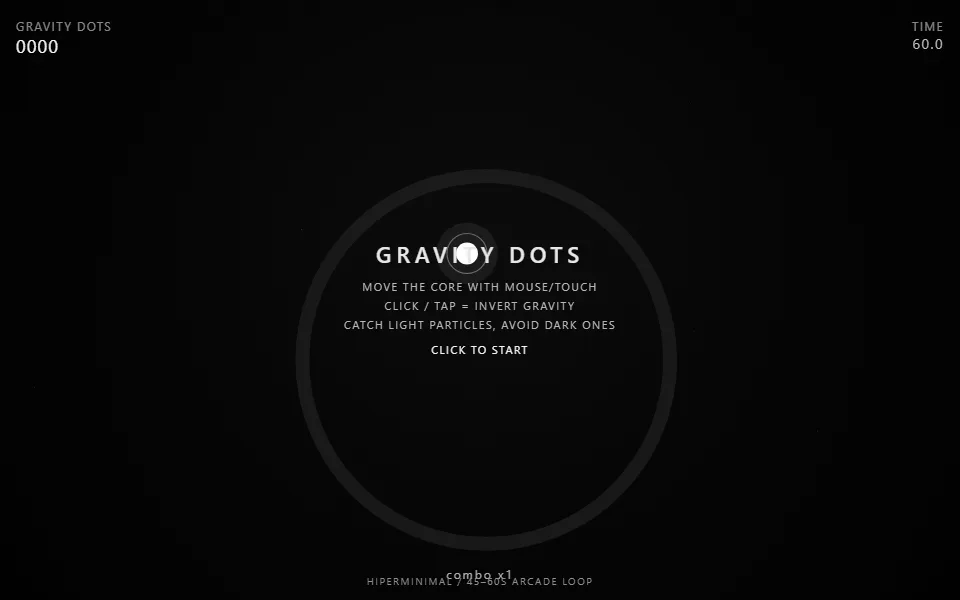
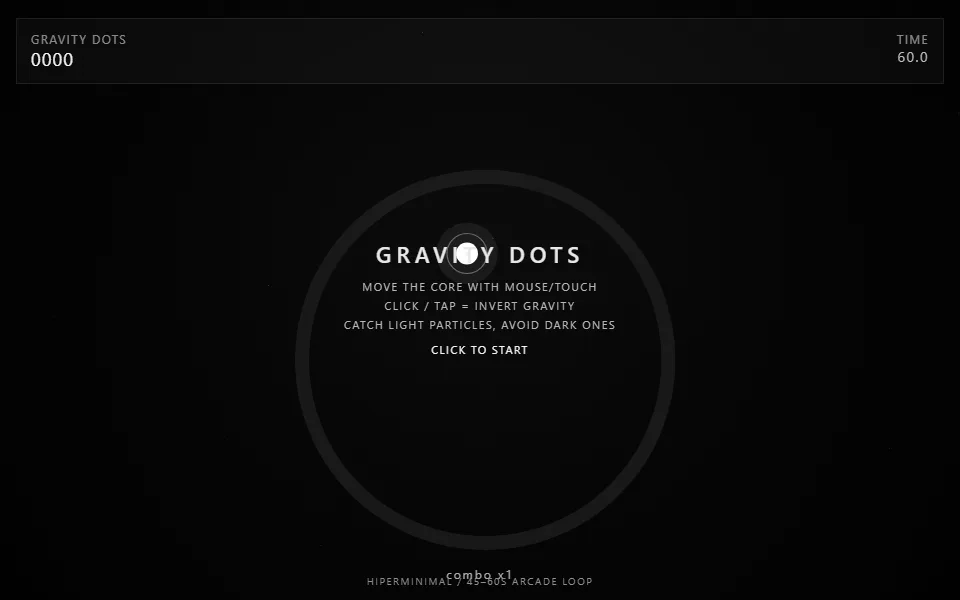
typo in scrollytelling

Changed region(s): [[0.0, 0.03, 0.125, 0.12], [0.9375, 0.03, 1.0, 0.12]]

diff --git a/games/wave-hunter/index.html b/games/wave-hunter/index.html
@@ -22,15 +22,15 @@
         display: flex; flex-direction: column; gap: 8px;
         padding: 14px 18px;
         border: 1px solid rgba(255,255,255,0.15);
-        background: rgba(5,5,5,0.65);
-        backdrop-filter: blur(8px);
-        border-radius: 10px;
+        background: rgba(5,5,5,0.35);
+        backdrop-filter: blur(6px);
+        border-radius: 0;
         min-width: 220px;
         z-index: 10;
     }
     .stat { display: flex; justify-content: space-between; font-size: 0.9rem; }
     .energy-bar, .intensity-meter {
-        width: 100%; border-radius: 999px; overflow: hidden;
+        width: 100%; border-radius: 0; overflow: hidden;
         background: rgba(255,255,255,0.2);
     }
     .energy-bar { height: 8px; }
@@ -51,7 +51,7 @@
         background: rgba(255,255,255,0.08);
         color: #fff;
         padding: 6px 12px;
-        border-radius: 999px;
+        border-radius: 0;
         font-size: 0.85rem;
         cursor: pointer;
         transition: background 0.2s, border 0.2s;
@@ -71,9 +71,10 @@
     .modal-content {
         max-width: 480px; width: 100%;
         border: 1px solid rgba(255,255,255,0.2);
-        background: rgba(8,8,8,0.85);
+        background: rgba(8,8,8,0.55);
+        backdrop-filter: blur(10px);
         padding: 28px;
-        border-radius: 16px;
+        border-radius: 0;
         text-align: center;
     }
     .modal-content h1 { margin-top: 0; font-size: 2rem; }
@@ -103,7 +104,7 @@
     }
     .lane-pad {
         width: 84px; height: 84px;
-        border-radius: 18px;
+        border-radius: 0;
         border: 1px solid rgba(255,255,255,0.25);
         background: rgba(255,255,255,0.08);
         color: #fff;
@@ -122,7 +123,7 @@
     @media (max-width: 640px) {
         .ui-panel { top: 12px; left: 12px; right: 12px; }
         .modal-content { padding: 22px; }
-        .lane-pad { width: 70px; height: 70px; border-radius: 16px; }
+        .lane-pad { width: 70px; height: 70px; border-radius: 0; }
     }
 </style>
 </head>

diff --git a/experiences/magnetic-cursor/index.html b/experiences/magnetic-cursor/index.html
@@ -19,10 +19,10 @@
       radial-gradient(circle at 50% 35%,rgba(255,255,255,.05),transparent 35%),
       linear-gradient(180deg,#0a0a0a,#030303)}
     .app{position:fixed;inset:0;display:flex;flex-direction:column;justify-content:space-between;gap:16px;padding:20px;pointer-events:none;z-index:2}
-    header{display:flex;justify-content:space-between;align-items:flex-start;gap:16px;pointer-events:auto}
+    header{display:flex;justify-content:space-between;align-items:flex-start;gap:16px;pointer-events:auto;padding:14px 18px;background:rgba(255,255,255,.03);backdrop-filter:blur(6px);-webkit-backdrop-filter:blur(6px);border:1px solid rgba(255,255,255,.08)}
     h1{font-size:clamp(28px,6vw,74px);line-height:.9;letter-spacing:-.05em}
     .meta{display:flex;gap:8px;flex-wrap:wrap;justify-content:flex-end}
-    .pill{border:1px solid var(--line);background:var(--panel);padding:8px 11px;border-radius:999px;font-size:10px;letter-spacing:.12em;text-transform:uppercase;color:#ddd}
+    .pill{border:1px solid var(--line);background:var(--panel);padding:8px 11px;border-radius:0;font-size:10px;letter-spacing:.12em;text-transform:uppercase;color:#ddd}
     .field{position:fixed;inset:0;z-index:0;touch-action:none}
     .center{
       position:absolute;left:50%;top:50%;transform:translate(-50%,-50%);
@@ -43,7 +43,7 @@
     .hint{font-size:12px;color:var(--muted)}
     .controls{display:flex;gap:8px;flex-wrap:wrap}
     button{
-      border:1px solid var(--line);background:var(--panel);color:#eee;border-radius:999px;padding:10px 13px;
+      border:1px solid var(--line);background:var(--panel);color:#eee;border-radius:0;padding:10px 13px;
       font-size:11px;letter-spacing:.12em;text-transform:uppercase;cursor:none;transition:.25s var(--ease)
     }
     button:hover{background:rgba(255,255,255,.1);transform:translateY(-1px)}

diff --git a/games/prism-runner/index.html b/games/prism-runner/index.html
@@ -35,6 +35,10 @@
 
     .top{
       display:flex;justify-content:space-between;align-items:flex-start;gap:8px;
+      padding:14px 18px;
+      background:rgba(255,255,255,.03);
+      backdrop-filter:blur(6px); -webkit-backdrop-filter:blur(6px);
+      border:1px solid rgba(255,255,255,.08);
       pointer-events:auto;
     }
     .title{display:grid;gap:4px}
@@ -290,7 +294,7 @@
         else if(keys.has('arrowright') || keys.has('d')) st.laneTarget = 1;
         else st.laneTarget = 0;
 
-        st.lane += (st.laneTarget - st.lane) * Math.min(1, dt * 12);
+        st.lane += (st.laneTarget - st.lane) * Math.min(1, dt * 18);
 
         // Dash
         if(st.dashCd > 0) st.dashCd -= dt;
@@ -316,13 +320,14 @@
 
         // Obstacles movement/collision
         const flow = 0.55 * (1 + st.speed*0.55);
+        const curLane = Math.round(st.lane);
         for(let i=st.obstacles.length-1;i>=0;i--){
           const o = st.obstacles[i];
           o.z -= flow * dt;
           o.rot += dt * (o.type==='prism' ? 1.2 : 0.8);
 
           if(!o.nearDone && o.z < 0.3 && o.z > 0.2){
-            const laneDiff = Math.abs(st.laneTarget - o.lane);
+            const laneDiff = Math.abs(curLane - o.lane);
             if(laneDiff === 1){
               o.nearDone = true;
               st.combo = Math.min(9, st.combo+1);
@@ -333,7 +338,7 @@
           }
 
           if(o.z <= 0.16){
-            const hit = (o.lane === st.laneTarget);
+            const hit = (o.lane === curLane);
             if(hit && !st.dash){
               st.over = true;
               st.running = false;

diff --git a/experiences/ascii-glitch-mirror/index.html b/experiences/ascii-glitch-mirror/index.html
@@ -29,14 +29,15 @@
     }
     .top{
       display:flex; gap:10px; align-items:center;
-      padding:10px 12px; border-bottom:1px solid var(--line);
-      background:linear-gradient(to bottom, #0a0a0a, #080808);
+      padding:12px 14px; border-bottom:1px solid rgba(255,255,255,.08);
+      background:rgba(255,255,255,.03);
+      backdrop-filter:blur(6px); -webkit-backdrop-filter:blur(6px);
     }
     .chip{
-      border:1px solid #222; color:#ddd; background:#0e0e0e;
+      border:1px solid #222; color:#ddd; background:rgba(255,255,255,.02);
       padding:6px 10px; font-size:12px; letter-spacing:.08em;
       text-transform:uppercase; cursor:pointer; user-select:none;
-      transition:.2s ease; border-radius:999px;
+      transition:.2s ease; border-radius:0;
     }
     .chip:hover{border-color:#3a3a3a;background:#121212}
     .chip.active{background:#161616;border-color:#5a5a5a;color:#fff}

diff --git a/games/orbit-lock/index.html b/games/orbit-lock/index.html
@@ -35,6 +35,10 @@
 
     .top{
       display:flex;justify-content:space-between;align-items:flex-start;gap:8px;
+      padding:14px 18px;
+      background:rgba(255,255,255,.03);
+      backdrop-filter:blur(6px); -webkit-backdrop-filter:blur(6px);
+      border:1px solid rgba(255,255,255,.08);
       pointer-events:auto;
     }
     .title{display:grid;gap:4px}
@@ -244,7 +248,7 @@
       function buildLevel(level){
         st.rings = [];
         const ringCount = clamp(1 + Math.floor((level-1)/2), 1, 3); // 1..3
-        st.targetSegments = ringCount < 2 ? 2 : 3;
+        st.targetSegments = Math.min(ringCount, 3); // all rings aligned
 
         const baseR = 108 * S;
         for(let i=0;i<ringCount;i++){

diff --git a/games/dark-invaders/index.html b/games/dark-invaders/index.html
@@ -26,7 +26,7 @@
       display:flex;flex-direction:column;justify-content:space-between;z-index:10
     }
 
-    .top{position:relative;min-height:50px}
+    .top{position:relative;min-height:50px;padding:12px 14px;background:rgba(255,255,255,.03);backdrop-filter:blur(6px);-webkit-backdrop-filter:blur(6px);border:1px solid rgba(255,255,255,.08)}
     .bottom{display:flex;justify-content:space-between;font-size:12px;color:#ccc}
     .label{font-size:9px;letter-spacing:1px;color:#888;margin-bottom:4px;display:block}
     .bar{width:min(44vw,220px);height:10px;border:1px solid #999;background:#111}

diff --git a/experiences/circle-typography/index.html b/experiences/circle-typography/index.html
@@ -63,10 +63,17 @@
   const DPR = Math.max(1, window.devicePixelRatio || 1);
 
   // ---------------- CONFIG ----------------
-  const categories = [
-    "ECHOLOCATION","ATTRACTION","ATTENTION","SOLICITATION",
-    "TERRITORY","FEAR","BAT LANGUAGE MAP","NAVIGATION","SWARM MEMORY"
-  ];
+const categories = [
+  "HUMAN",
+  "DIGITAL",
+  "INTERFACE",
+  "AUGMENTATION",
+  "EXISTENCE",
+  "INTELLIGENCE",
+  "SIMULATION",
+  "FUTURE",
+  "LEGACY"
+];
 
   const OUTER_R = 360, INNER_R = 300, VOLUME_R = 250;
   const POINTS = 1800, CLUSTERS_PER_CAT = 3, ROT_SPEED = 0.0009;

diff --git a/experiences/typography-boss/index.html b/experiences/typography-boss/index.html
@@ -28,10 +28,11 @@
     }
     .top,.bottom{display:flex; justify-content:space-between; align-items:center;}
     .panel{
-      border:1px solid var(--g2);
+      border:1px solid rgba(255,255,255,.08);
       padding:8px 10px;
-      background:rgba(0,0,0,.35);
-      backdrop-filter: blur(2px);
+      background:rgba(255,255,255,.03);
+      backdrop-filter: blur(6px);
+      -webkit-backdrop-filter: blur(6px);
       font-size:12px; line-height:1.1;
       text-transform:uppercase;
     }

diff --git a/games/gravity-dots/index.html b/games/gravity-dots/index.html
@@ -31,6 +31,10 @@
     }
     .top{
       display:flex; justify-content:space-between; align-items:flex-start;
+      padding:12px 14px;
+      background:rgba(255,255,255,.03);
+      backdrop-filter:blur(6px); -webkit-backdrop-filter:blur(6px);
+      border:1px solid rgba(255,255,255,.08);
       font-size:12px; letter-spacing:.12em; text-transform:uppercase; color:#d0d0d0;
     }
     .score{font-size:18px; letter-spacing:.06em; color:#f5f5f5;}

diff --git a/experiences/scroll-tunnel/index.html b/experiences/scroll-tunnel/index.html
@@ -53,12 +53,15 @@
       position:absolute;
       top:28px;
       left:28px;
+      padding:10px 14px;
       letter-spacing:.22em;
       font-size:11px;
       text-transform:uppercase;
       color:#d8d8d8;
+      background:rgba(255,255,255,.03);
+      backdrop-filter:blur(6px); -webkit-backdrop-filter:blur(6px);
+      border:1px solid rgba(255,255,255,.08);
       opacity:.9;
-      mix-blend-mode:screen;
     }
 
     .subtitle{

diff --git a/index.html b/index.html
@@ -880,6 +880,7 @@
       const title = document.getElementById("overlay-title");
       title.textContent = mod ? mod.title : "";
       frame.src = route + (route.includes("?") ? "&" : "?") + "hubFullscreen=1";
+      frame.addEventListener("load", () => { try { frame.focus(); } catch (err) {} }, { once: true });
       overlay.classList.add("active");
       document.body.style.overflow = "hidden";
       AudioEngine.playOpen();

diff --git a/experiences/scrollytelling/index.html b/experiences/scrollytelling/index.html
@@ -19,8 +19,7 @@
         <p class="eyebrow">FINAL SCROLL STUDY</p>
         <h1>SCROLLYTELLING</h1>
         <p>
-          Una historia contada con scroll. Cada desplazamiento activa una escena,
-          cambia una imagen y revela una nueva parte del relato.
+          A story told with scrolling. Each scroll activates a scene, changes an image, and reveals a new part of the story.
         </p>
       </div>
     </section>
